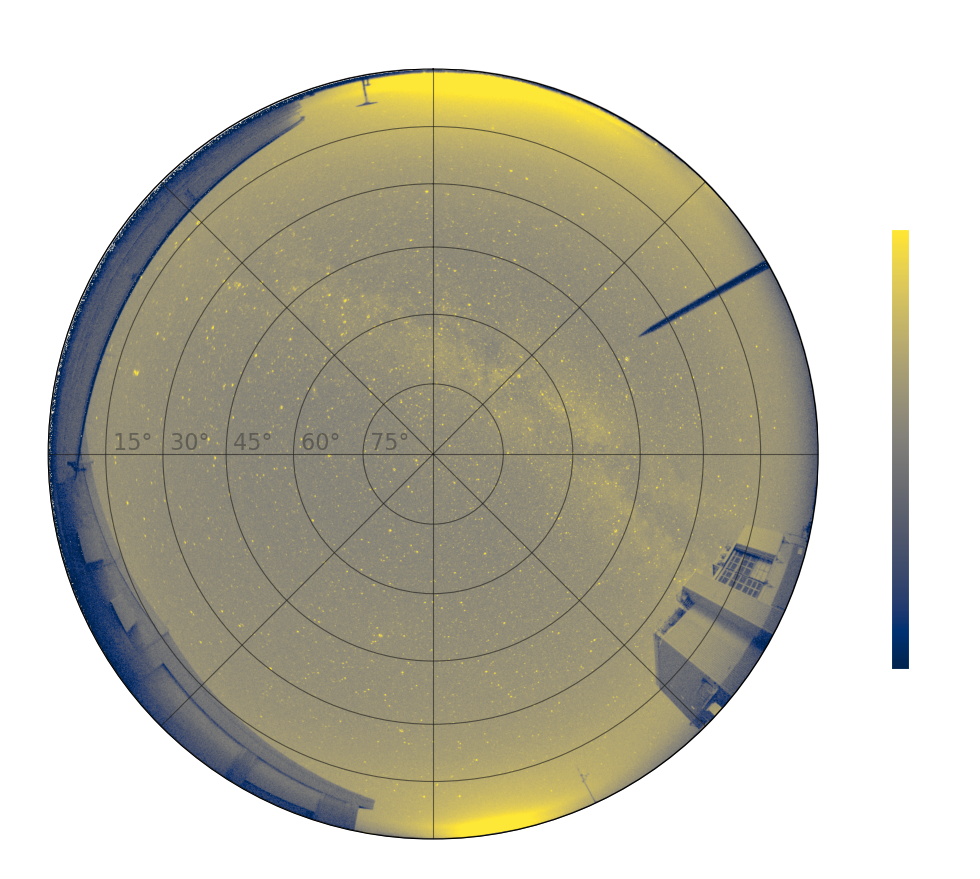
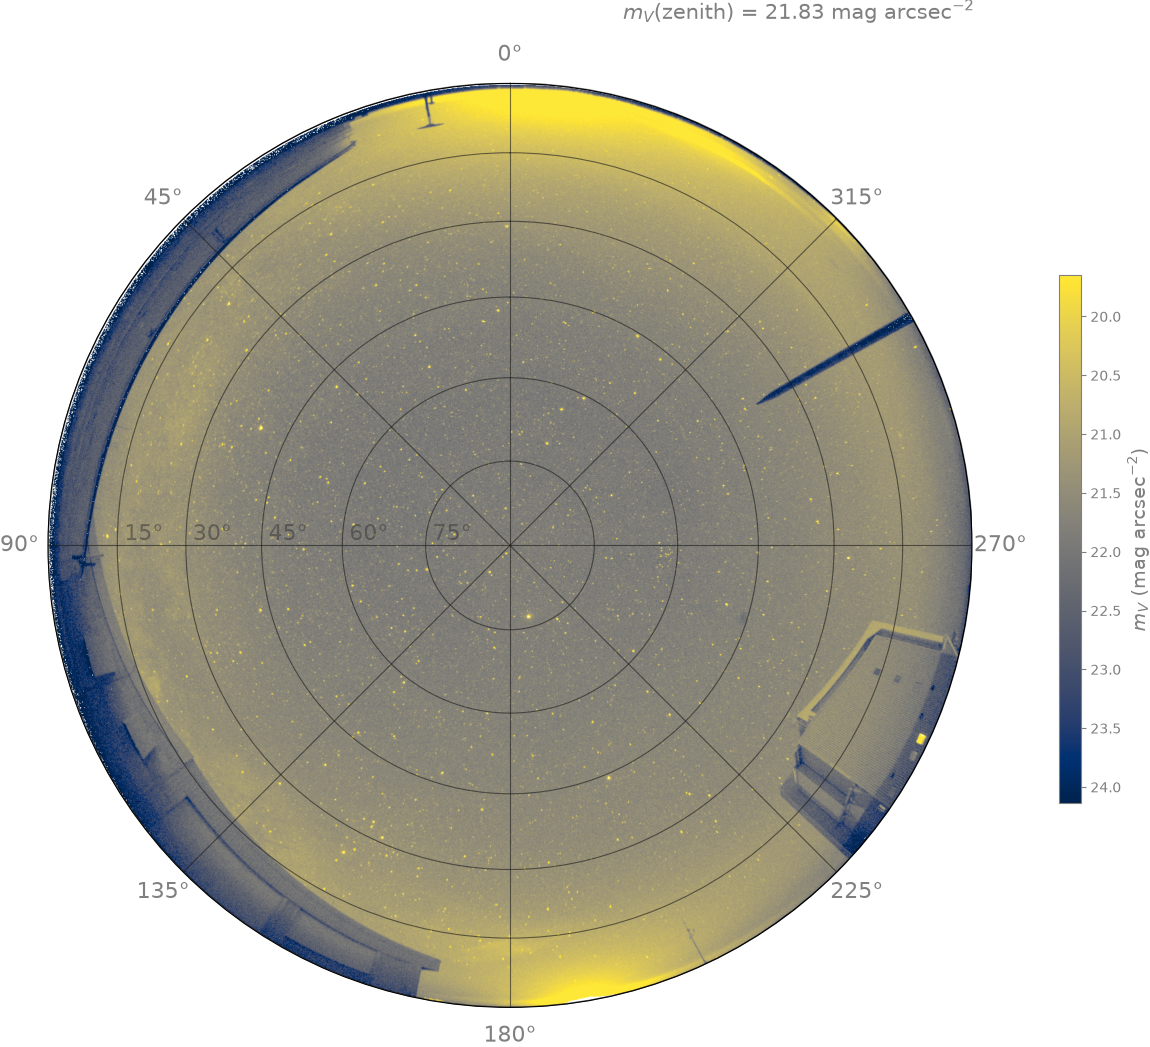
docs: WCS overlay inset + transparent figure backgrounds
- alcor_wcs_overlay.png: regenerate with a zoomed inset showing a near-zenith
  star centred in its aperture (generator: claude_docs/scripts/make_wcs_overlay_fig.py)
- skybright_test.png: regenerate (clean dark 2026-05-18 frame, m_V(zenith)~21.8)
  with the lightened labels
- custom.css: opt the two all-sky figures out of pydata's dark-mode white image
  backing (it paints content images white in dark mode) via a transparent-bg
  class, so they sit on the page background; registered with html_css_files
- tag both figures with :class: transparent-bg and note the inset in the caption

diff --git a/docs/_static/custom.css b/docs/_static/custom.css
@@ -1,0 +1,9 @@
+/* pydata-sphinx-theme paints every content image white in dark mode
+   (html[data-theme=dark] .bd-content img:not(.only-dark,.dark-light)) so that
+   transparent plots stay readable. The all-sky overlay and sky-brightness
+   figures are designed to sit on the page background, so opt them out via the
+   `transparent-bg` class on their `.. figure:: :class:`. */
+html[data-theme="dark"] .bd-content img.transparent-bg {
+    background-color: transparent !important;
+    border-radius: 0;
+}

diff --git a/claude_docs/scripts/make_wcs_overlay_fig.py b/claude_docs/scripts/make_wcs_overlay_fig.py
@@ -1,0 +1,98 @@
+"""Regenerate the WCS catalog-overlay docs figure (docs/images/alcor_wcs_overlay.png)
+with a zoomed inset that shows individual stars sitting inside their apertures.
+
+Replicates the aperture overlay from skycam_utils.alcor.save_alcor_photometry_check_plot
+(plot_alcor_fits render + cyan annulus / yellow aperture circles) and adds a
+zoomed_inset around a bright near-zenith star so the star-vs-aperture alignment
+is visible at a glance. Not packaged; run from the repo root.
+"""
+import matplotlib
+matplotlib.use("Agg")
+import matplotlib.pyplot as plt
+from matplotlib.patches import Circle
+from mpl_toolkits.axes_grid1.inset_locator import mark_inset
+
+from skycam_utils.alcor import (
+    alcor_star_photometry, plot_alcor_fits, load_alcor_fits,
+)
+
+FRAME = "/Volumes/Samsung_4TB/skycam/2026-05-18/2026_05_18__23_05_15.fits.bz2"
+OUT = "docs/images/alcor_wcs_overlay.png"
+RADIUS = 680
+APERTURE_RADIUS = 4.0
+ANNULUS_WIDTH = 1.0
+INSET_HALF = 32          # half-width (px) of the zoom window
+ANNULUS_INNER = APERTURE_RADIUS + 1.0
+OUTER = ANNULUS_INNER + ANNULUS_WIDTH
+
+
+def draw_apertures(target_ax, phot, xl, yl, xu, yu, lw=1.0):
+    for _, row in phot.iterrows():
+        x, y = float(row["xcen"]), float(row["ycen"])
+        if x + OUTER < xl or x - OUTER > xu or y + OUTER < yl or y - OUTER > yu:
+            continue
+        cx, cy = x - xl, y - yl
+        target_ax.add_patch(Circle((cx, cy), OUTER, facecolor="none",
+                                   edgecolor="cyan", linewidth=0.7 * lw, alpha=0.35))
+        target_ax.add_patch(Circle((cx, cy), ANNULUS_INNER, facecolor="none",
+                                   edgecolor="cyan", linewidth=0.6 * lw, alpha=0.25,
+                                   linestyle="--"))
+        target_ax.add_patch(Circle((cx, cy), APERTURE_RADIUS, facecolor="none",
+                                   edgecolor="yellow", linewidth=0.9 * lw, alpha=0.9))
+
+
+def main():
+    phot, _ = alcor_star_photometry(
+        FRAME, output_file="/tmp/alcor_overlay_phot.csv",
+        vmag_limit=4.0, min_altitude=15,
+    )
+
+    fig = plot_alcor_fits(FRAME, outfig=None, radius=RADIUS, powerstretch=0.75,
+                          contrast=0.35, gscale=0.7, bscale=1.7, figsize=12)
+    ax = fig.axes[0]
+
+    cube, wcs, _ = load_alcor_fits(FRAME)
+    zx, zy = wcs.world_to_pixel_values(0.0, 90.0)
+    xz, yz = int(round(float(zx))), int(round(float(zy)))
+    ny, nx = cube.shape[1:]
+    yl, yu = max(0, yz - RADIUS), min(ny, yz + RADIUS)
+    xl, xu = max(0, xz - RADIUS), min(nx, xz + RADIUS)
+
+    draw_apertures(ax, phot, xl, yl, xu, yu)
+
+    # pick a bright, high-altitude (near-zenith, round PSF) star comfortably
+    # inside the crop to anchor the zoom
+    fcol = "flux_g" if "flux_g" in phot.columns else "flux_g_ap"
+    cand = phot.copy()
+    cand["cx"] = cand["xcen"] - xl
+    cand["cy"] = cand["ycen"] - yl
+    W = xu - xl
+    H = yu - yl
+    inside = ((cand["cx"] > 100) & (cand["cx"] < W - 100) &
+              (cand["cy"] > 100) & (cand["cy"] < H - 100))
+    if "altitude" in cand.columns:
+        inside &= cand["altitude"] > 55
+    cand = cand[inside].sort_values(fcol, ascending=False)
+    star = cand.iloc[0]
+    cx0, cy0 = float(star["cx"]), float(star["cy"])
+
+    axins = ax.inset_axes([0.63, 0.63, 0.36, 0.36])
+    axins.imshow(ax.images[0].get_array(), origin="lower")
+    draw_apertures(axins, phot, xl, yl, xu, yu, lw=2.4)
+    axins.set_xlim(cx0 - INSET_HALF, cx0 + INSET_HALF)
+    axins.set_ylim(cy0 - INSET_HALF, cy0 + INSET_HALF)
+    axins.set_xticks([])
+    axins.set_yticks([])
+    for spine in axins.spines.values():
+        spine.set_edgecolor("white")
+        spine.set_linewidth(1.3)
+    mark_inset(ax, axins, loc1=2, loc2=3, fc="none", ec="white", lw=0.8, alpha=0.7)
+
+    fig.savefig(OUT, transparent=True, bbox_inches="tight", pad_inches=0, dpi=150)
+    plt.close(fig)
+    print(f"wrote {OUT}  (inset on star at cropped px ({cx0:.0f}, {cy0:.0f}), "
+          f"altitude {float(star.get('altitude', float('nan'))):.1f} deg)")
+
+
+if __name__ == "__main__":
+    main()

diff --git a/docs/conf.py b/docs/conf.py
@@ -27,6 +27,7 @@ rst_epilog += "\n"  # noqa: F405
 html_title = f"{project} v{release}"
 
 html_static_path = ["_static"]
+html_css_files = ["custom.css"]
 
 # The trimmed grey MMT logo reads on both the light and dark theme, so use the
 # one image for both modes.

diff --git a/docs/wcs_calibration.rst b/docs/wcs_calibration.rst
@@ -120,11 +120,13 @@ projection, distortion, and tilt terms are all pulling their weight.
 
 .. figure:: images/alcor_wcs_overlay.png
    :width: 100%
+   :class: transparent-bg
    :alt: WCS-predicted bright-star apertures overlaid on a real Alcor frame.
 
    Named bright-star positions predicted by the fitted WCS (aperture + annulus
    markers) overlaid on a dark 2026-05-18 frame, north-up. The predicted
-   positions track the visible stars across the whole field.
+   positions track the visible stars across the whole field; the inset zooms on a
+   near-zenith star, showing it centred inside its aperture.
 
 The second figure is the quantitative residual diagnostic emitted by
 ``fit_alcor_wcs --fit-k5 --residual-plot`` — six panels of the matched-star

diff --git a/docs/sky_brightness.rst b/docs/sky_brightness.rst
@@ -47,6 +47,7 @@ validates the whole exposure → solid-angle → zeropoint chain end to end.
 
 .. figure:: images/skybright_test.png
    :width: 100%
+   :class: transparent-bg
    :alt: Alcor G-channel sky-brightness map in V mag/arcsec^2.
 
    An Alcor sky-brightness map: the G channel converted to observed